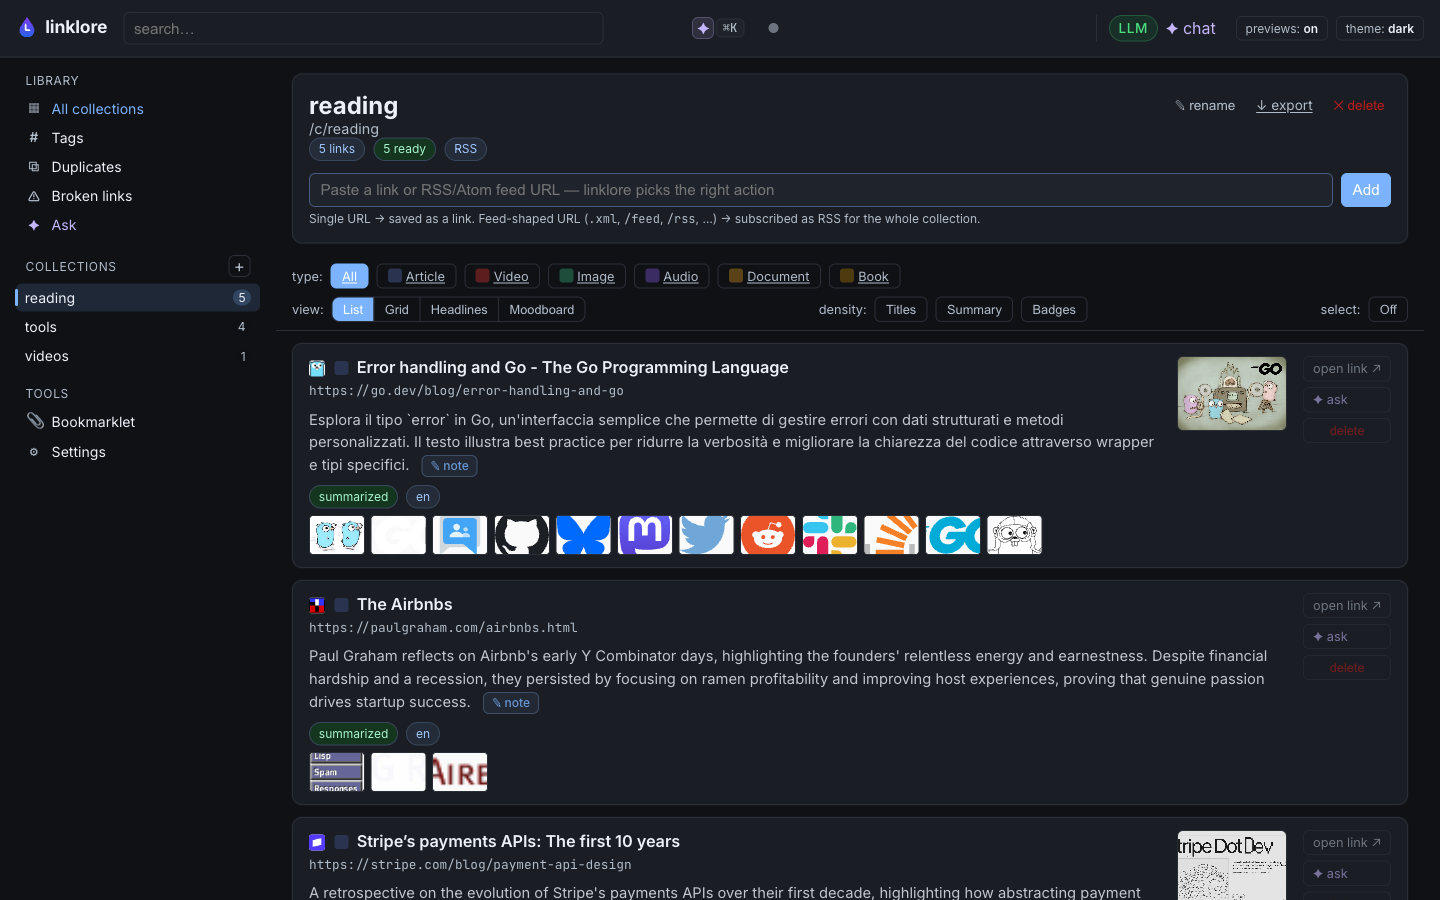
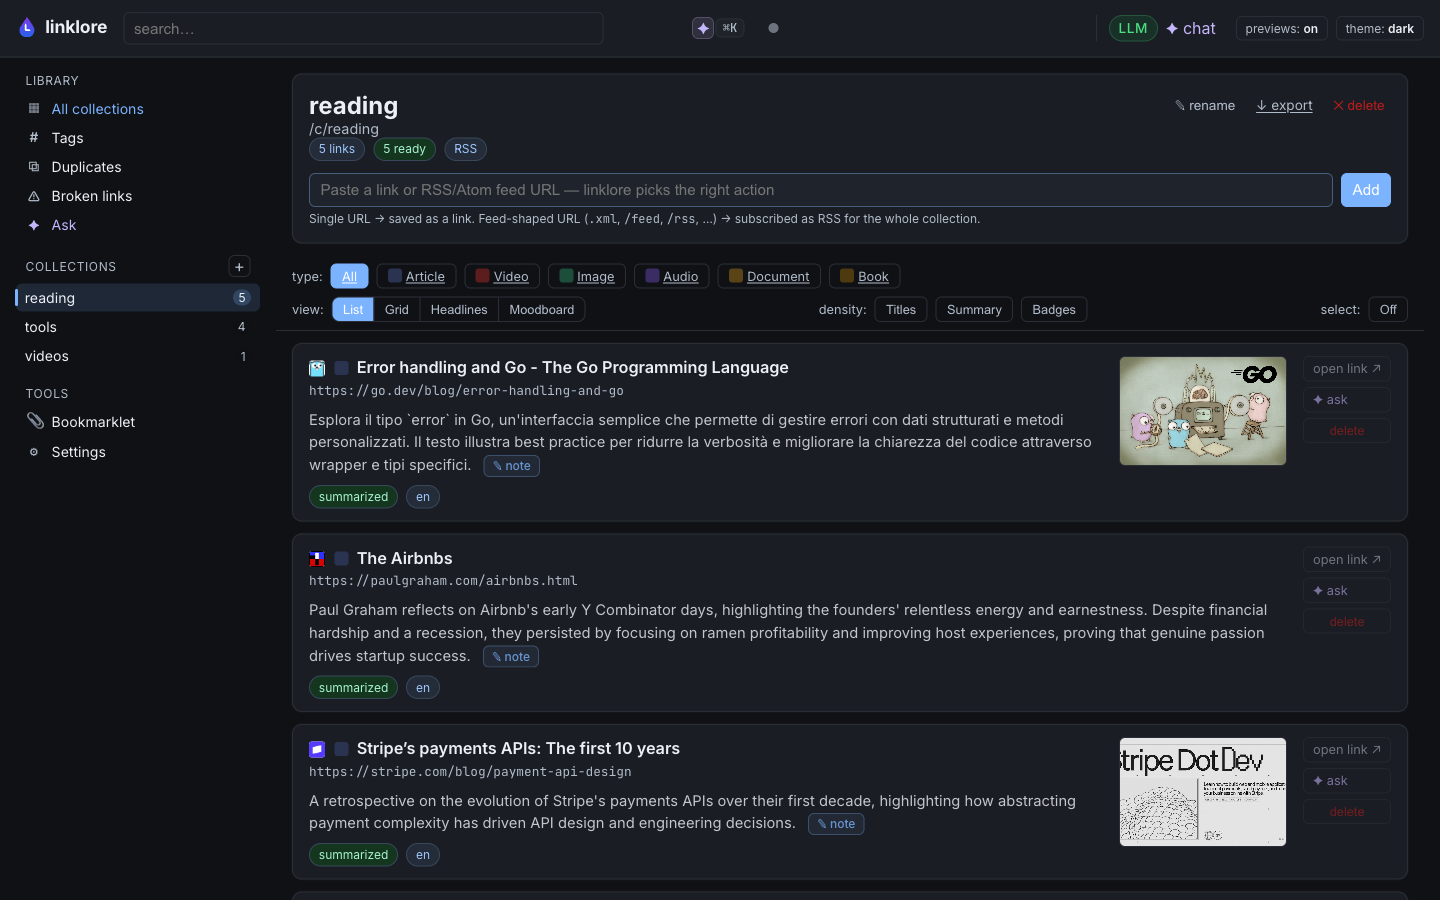
feat(ui): cleaner list view + nowrap palette + moodboard/type-filter screenshots
UX feedback: the small extra-thumbnail strip in list view felt
busy, the command palette wrapped long titles onto a second line
and looked disordered, and the screenshot set didn't show off the
moodboard view or the type filter — both visually impressive
features that were getting hidden.

CSS:
- list view hides .preview-strip; .preview-primary grows from
  110x75 to 168x110 so the row reads as "summary + one strong
  image" instead of "summary + thumbnail + thumbnail strip"
- palette items are flex-nowrap with ellipsis on title and URL
  hint; item never breaks onto two lines, even at viewport
  widths where the URL gets long
- bumped app.css cache-bust to ?v=14

Screenshots regenerated against the demo DB:
- 03-collection.png — new clean list rows
- 04-drawer.png — Microservices article (richer body than the
  previous Paul Graham capture)
- 05-palette.png — typing "go" returns 5 single-line results
- 06-moodboard.png — NEW. Pinterest masonry with hero images
- 07-types.png — NEW. Type filter chip "article" highlighted
README screenshot block expanded to a 3-row 2x3 grid with
copy explaining the type-filter affordance and that view choice
is per-collection + persisted.

diff --git a/web/static/app.css b/web/static/app.css
@@ -1621,3 +1621,29 @@ body.previews-off .preview:not(.preview-favicon) { display: none !important; }
    attribute, because the explicit display rule wins specificity. --- */
 [hidden] { display: none !important; }
 
+/* --- Cleaner row in list/headlines views: the row of small extra
+   thumbnails was visually noisy on the home/collection screenshots.
+   Keep one big primary image on the right, hide the extras strip
+   except in moodboard / detail page where the gallery is intentional. --- */
+#links-list.layout-list .link-row .preview-strip { display: none; }
+#links-list.layout-list .link-row .preview-primary {
+	width: 168px; height: 110px;
+}
+
+/* --- Command palette items must NOT wrap: a long title + URL on the
+   same row was breaking onto two lines and looking disordered. Single
+   line, ellipsis on overflow, URL hint shrinks if needed. --- */
+.palette-item { flex-wrap: nowrap; min-width: 0; }
+.palette-item > * { min-width: 0; }
+.palette-item .palette-title,
+.palette-item > span:first-child {
+	flex: 1 1 auto;
+	overflow: hidden; text-overflow: ellipsis; white-space: nowrap;
+}
+.palette-item .palette-hint,
+.palette-item > span:last-child {
+	flex: 0 1 auto;
+	overflow: hidden; text-overflow: ellipsis; white-space: nowrap;
+	max-width: 50%; opacity: .7;
+}
+

diff --git a/web/templates/base.html b/web/templates/base.html
@@ -15,7 +15,7 @@
 	<link rel="preconnect" href="https://fonts.googleapis.com">
 	<link rel="preconnect" href="https://fonts.gstatic.com" crossorigin>
 	<link href="https://fonts.googleapis.com/css2?family=Inter:wght@400;500;600;700&family=JetBrains+Mono:wght@400;500&display=swap" rel="stylesheet">
-	<link rel="stylesheet" href="/static/app.css?v=13">
+	<link rel="stylesheet" href="/static/app.css?v=14">
 	<script src="https://unpkg.com/htmx.org@2.0.4" defer></script>
 	<script src="/static/dnd.js" defer></script>
 	<script src="/static/events.js" defer></script>

diff --git a/README.md b/README.md
@@ -136,11 +136,15 @@ the migration.
 
 <table>
 <tr>
-<td width="50%"><strong>Collection (list view)</strong><br>Favicons, LLM summaries, type chips, density toggles, four view modes.<br><img src="docs/screenshots/03-collection.png" alt="Collection list view"></td>
-<td width="50%"><strong>RAG chat with citations</strong><br>Streaming answer, <code>[src:4]</code> tokens link back to the chunk. Sources rail on the right dims rows that were retrieved but not cited.<br><img src="docs/screenshots/02-chat.png" alt="RAG chat answering with citations"></td>
+<td width="50%"><strong>Collection — list view</strong><br>Favicon + LLM summary + tags per row, big single hero image on the right. Type filter chips above (article / video / image / audio / document / book) narrow the grid to a single content kind.<br><img src="docs/screenshots/03-collection.png" alt="Collection list view"></td>
+<td width="50%"><strong>RAG chat with citations</strong><br>Streaming answer, <code>[src:N]</code> tokens link back to the exact chunk. Sources rail on the right dims rows that were retrieved but not cited.<br><img src="docs/screenshots/02-chat.png" alt="RAG chat answering with citations"></td>
 </tr>
 <tr>
-<td width="50%"><strong>Reader drawer</strong><br>Slide-in preview with size / width / theme controls + a TL;DR card.<br><img src="docs/screenshots/04-drawer.png" alt="Reader drawer"></td>
+<td width="50%"><strong>Moodboard view</strong><br>Same data, Pinterest-style masonry. Three more layouts (grid, headlines, list) one click away — choice is per-collection and persisted.<br><img src="docs/screenshots/06-moodboard.png" alt="Moodboard view"></td>
+<td width="50%"><strong>Type filter</strong><br>Per-collection chip filters narrow the view to one content kind without leaving the page.<br><img src="docs/screenshots/07-types.png" alt="Type filter chips"></td>
+</tr>
+<tr>
+<td width="50%"><strong>Reader drawer</strong><br>Slide-in preview with size / width / theme controls + an LLM TL;DR card pinned above the article.<br><img src="docs/screenshots/04-drawer.png" alt="Reader drawer"></td>
 <td width="50%"><strong>⌘K command palette</strong><br>Fuzzy-search every link, every collection, every page. <code>j/k</code> walks rows; <code>↵</code> opens.<br><img src="docs/screenshots/05-palette.png" alt="Command palette"></td>
 </tr>
 </table>
